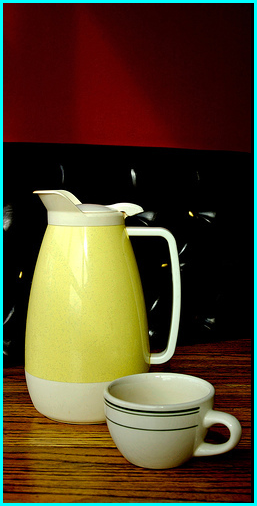
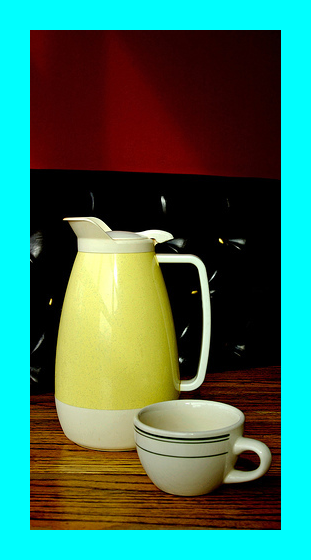
Fix indexing issue in outside_ornament function to correctly copy pixel data

diff --git a/src/outside_ornament.c b/src/outside_ornament.c
@@ -40,12 +40,13 @@ void outside_ornament(PNGImage* image, int thickness, char* color){
     int x1 = 0;
     for (int y = thickness;y<new_height-thickness;y++){
         for (int x = thickness;x<new_width-thickness;x++){
-            row_pointers_copy[y][x*3] = image->row_pointers[y1][x*3];
-            row_pointers_copy[y][x*3+1] = image->row_pointers[y1][x*3+1];
-            row_pointers_copy[y][x*3+2] = image->row_pointers[y1][x*3+2];
+            row_pointers_copy[y][x*3] = image->row_pointers[y1][x1*3];
+            row_pointers_copy[y][x*3+1] = image->row_pointers[y1][x1*3+1];
+            row_pointers_copy[y][x*3+2] = image->row_pointers[y1][x1*3+2];
             x1++;
         }
         y1++;
+        x1 = 0;
     }
     image->height = new_height;
     image->width = new_width;
